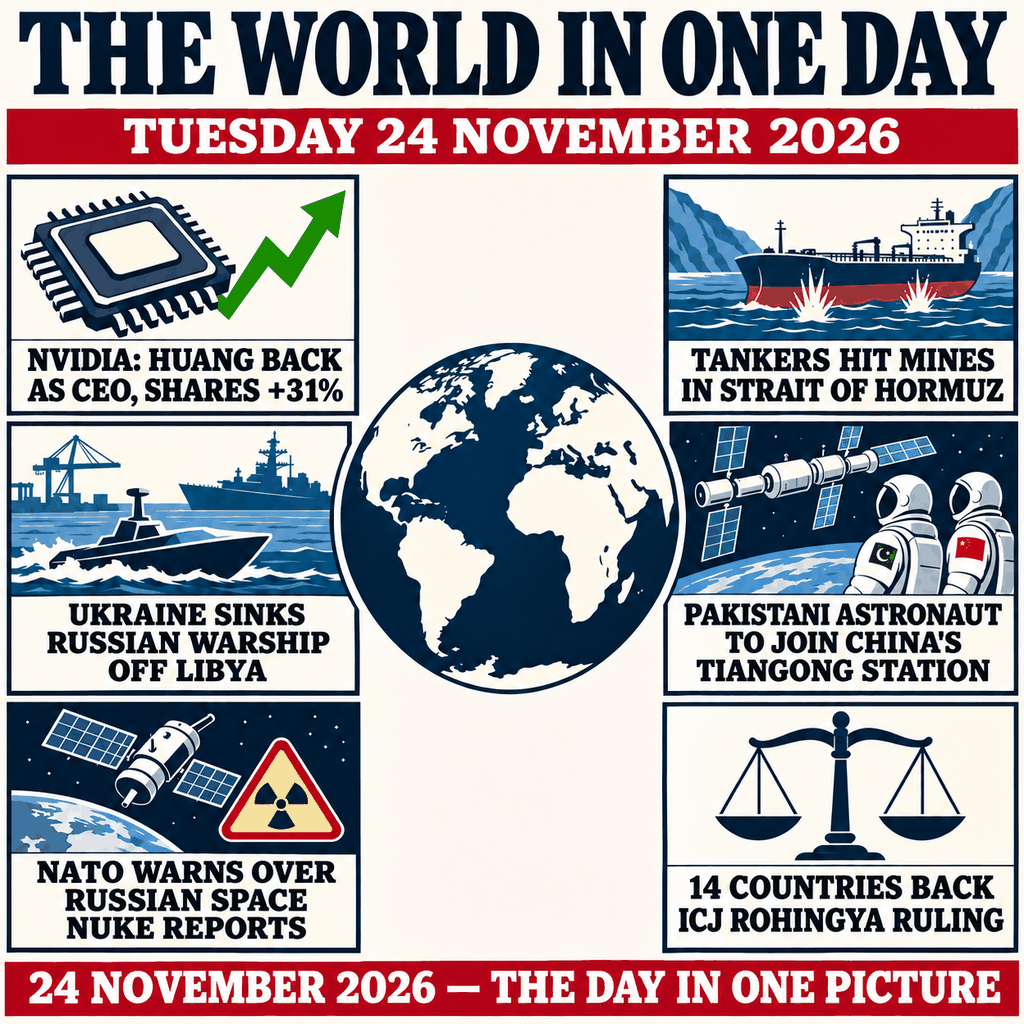
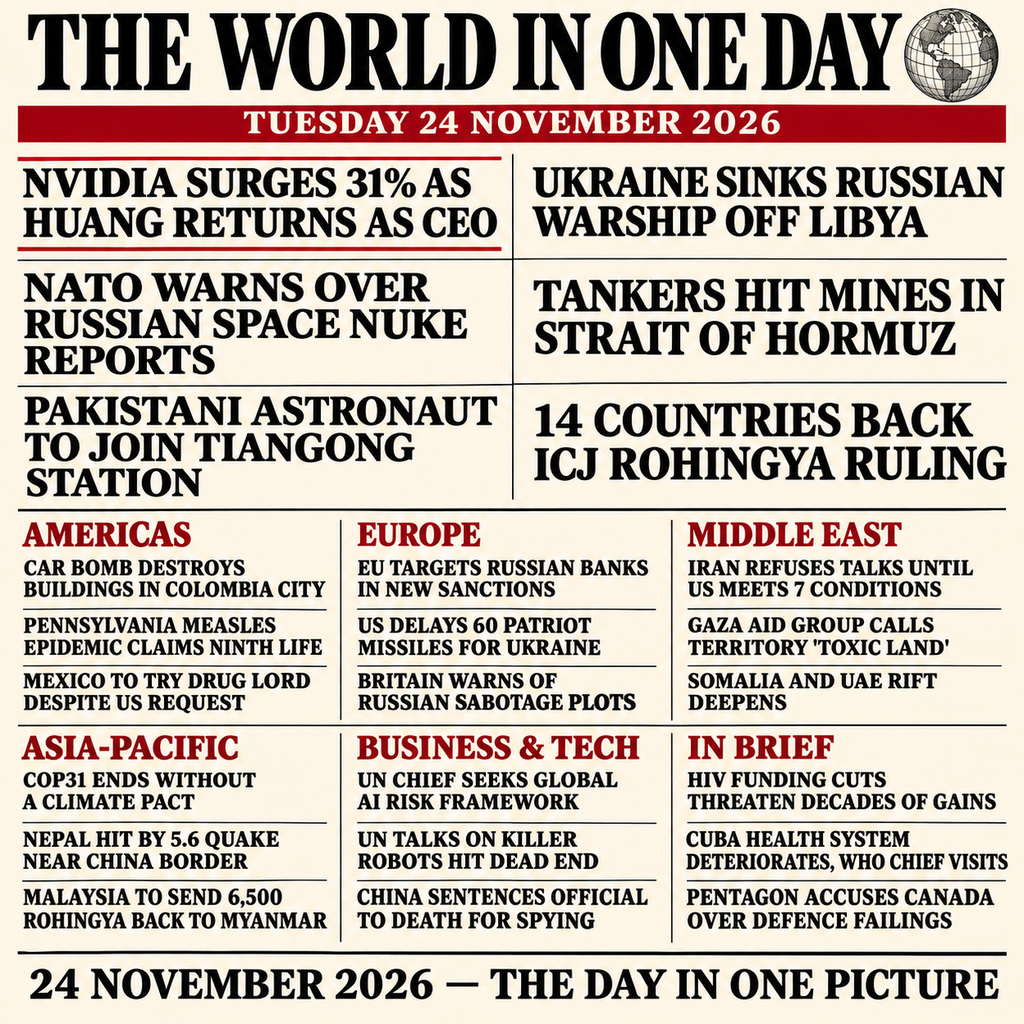
Replace entry.png and main.py

diff --git a/main.py b/main.py
@@ -1,12 +1,12 @@
-import hashlib
 import os
-import shutil
+from hashlib import file_digest
 from pathlib import Path
+from shutil import copyfile
 
 
 def sha256(path: Path) -> bytes:
-    with path.open("rb") as file:
-        return hashlib.sha256(file.read()).digest()
+    with path.open("rb") as image:
+        return file_digest(image, "sha256").digest()
 
 
 def main() -> None:
@@ -14,11 +14,11 @@ def main() -> None:
     output_dir = Path(os.environ.get("MAKEFUN_OUTPUT_DIR", "/output"))
     output_dir.mkdir(parents=True, exist_ok=True)
     destination = output_dir / source.name
-    if destination.resolve() != source:
-        shutil.copyfile(source, destination)
+    copyfile(source, destination)
+
     if sha256(source) != sha256(destination):
-        raise OSError(f"SHA-256 mismatch for {destination}")
-    print(f"Verified {destination.name} ({destination.stat().st_size:,} bytes)")
+        raise RuntimeError(f"SHA-256 mismatch after copying to {destination}")
+    print(f"Verified {destination} ({destination.stat().st_size} bytes)")
 
 
 if __name__ == "__main__":
